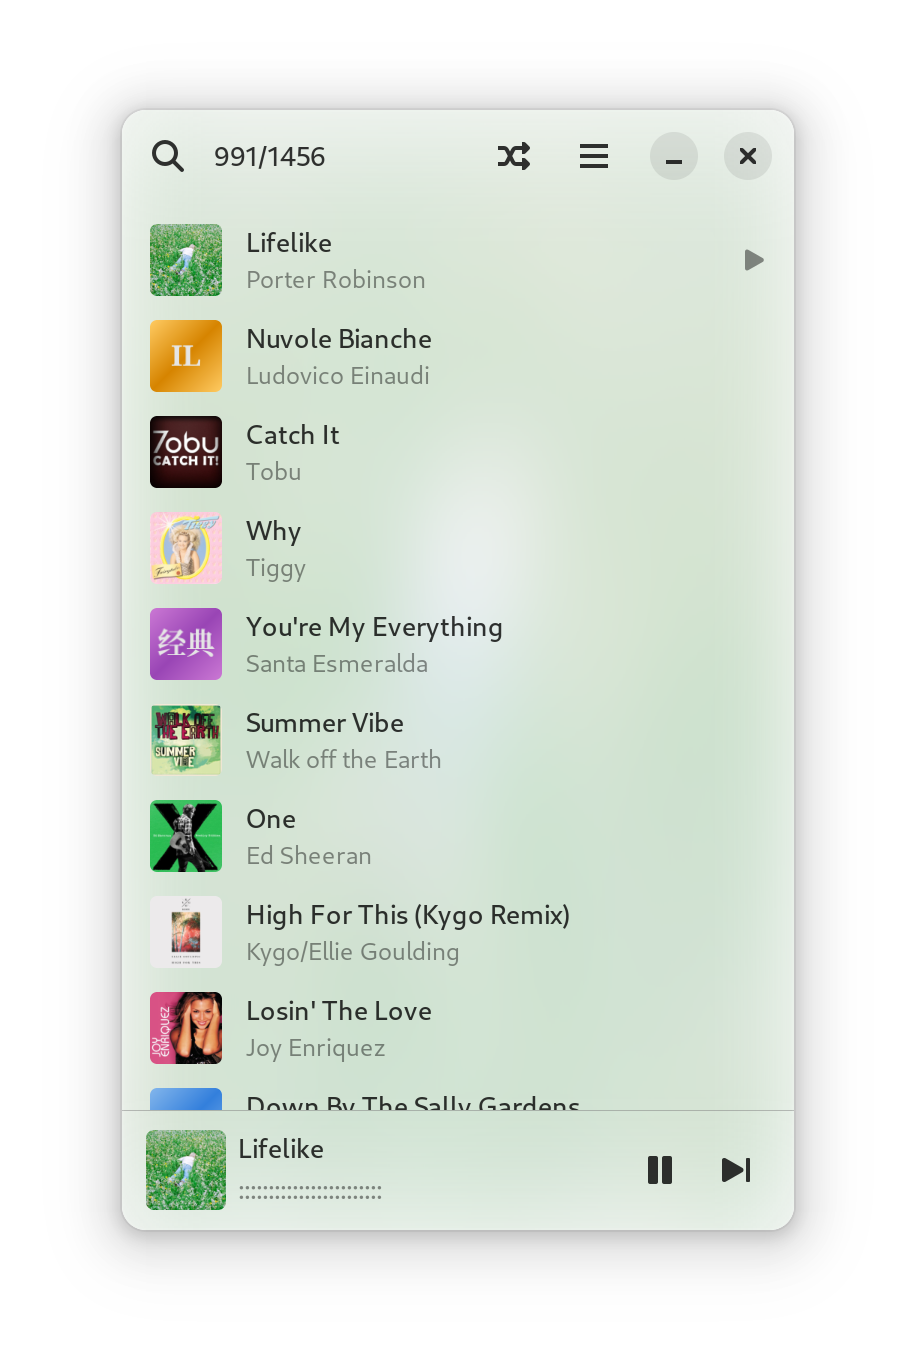
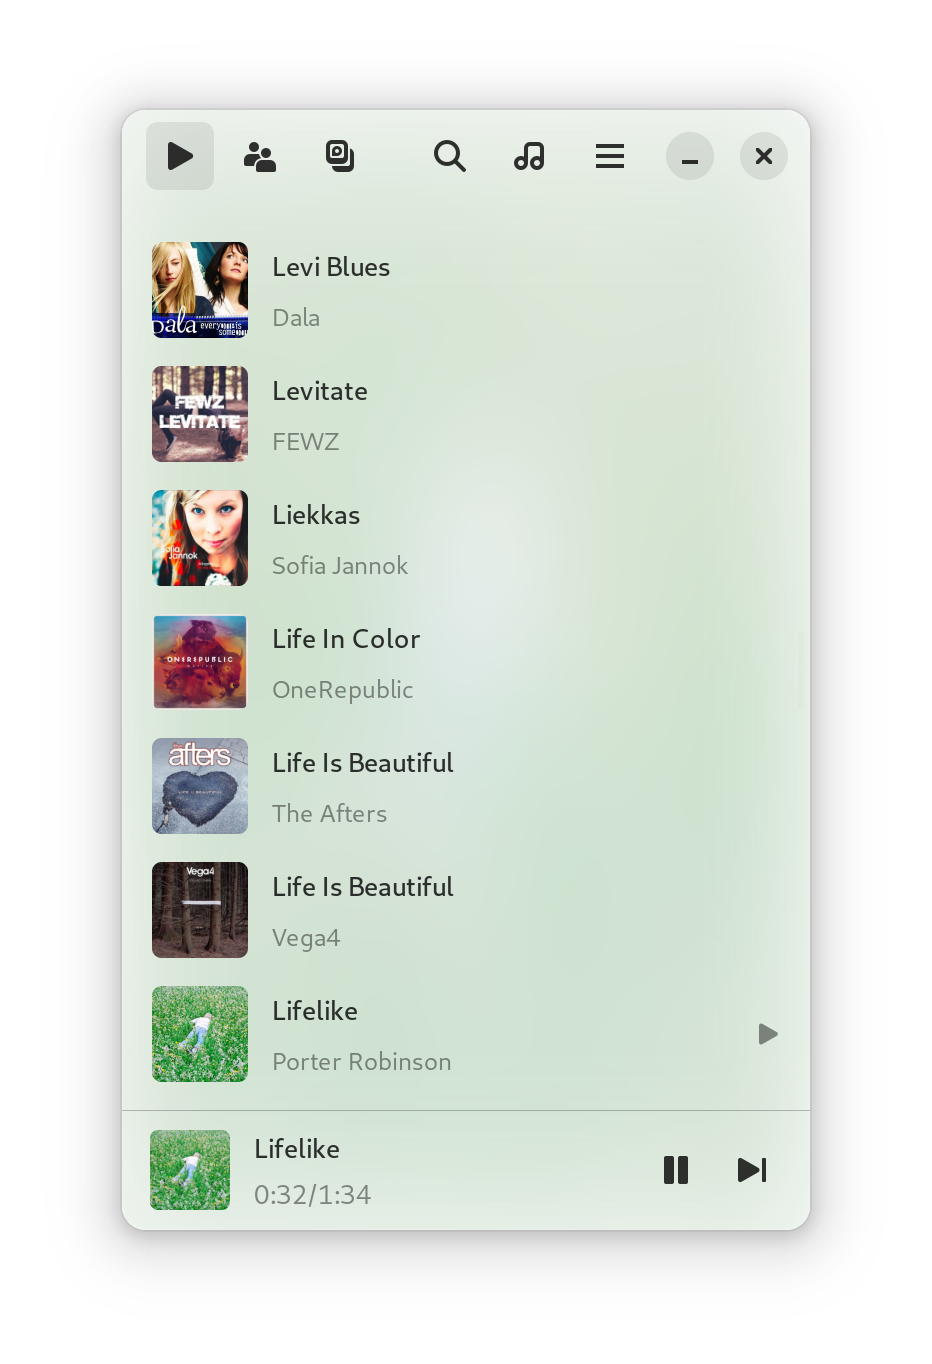
update description and screen shots

diff --git a/README.md b/README.md
@@ -3,18 +3,18 @@
 # Gapless
 Play your music elegantly.
 
-<img src="./shots/window.png" width="822"/>
-<img src="./shots/playbar.png" width="458"/>
-<img src="./shots/playlist.png" width="458"/>
+<img src="./shots/window.png" width="1134"/>
+<img src="./shots/albums.png" width="1134"/>
+<img src="./shots/playing.png" width="462"/>
+<img src="./shots/playlist.png" width="466"/>
 
 A fast, fluent, light weight music player written in GTK4, with a beautiful, adaptive user interface, focuses on high performance, for those people who have huge number of songs.
 
 ## Features
 - Supports most music file types, samba and any other remote protocols (depends on GIO and GStreamer).
 - Fast loading and parsing thousands of music files in very few seconds, monitor local changes.
-- Low memory usage for huge playlist with album covers, no thumbnail caches to store.
-- Sorts by album/artist/title and shuffle, full-text searching.
-- Supports embedded album art and external album cover.
+- Low memory usage for huge playlist with album covers (embedded and external), no thumbnail caches to store..
+- Group and sorts by album/artist/title, shuffle list, full-text searching.
 - Gaussian blurred cover as background, follows GNOME light/dark mode.
 - Drag-drop from GNOME Files, showing music in Files.
 - Supports audio peaks visualizer.
